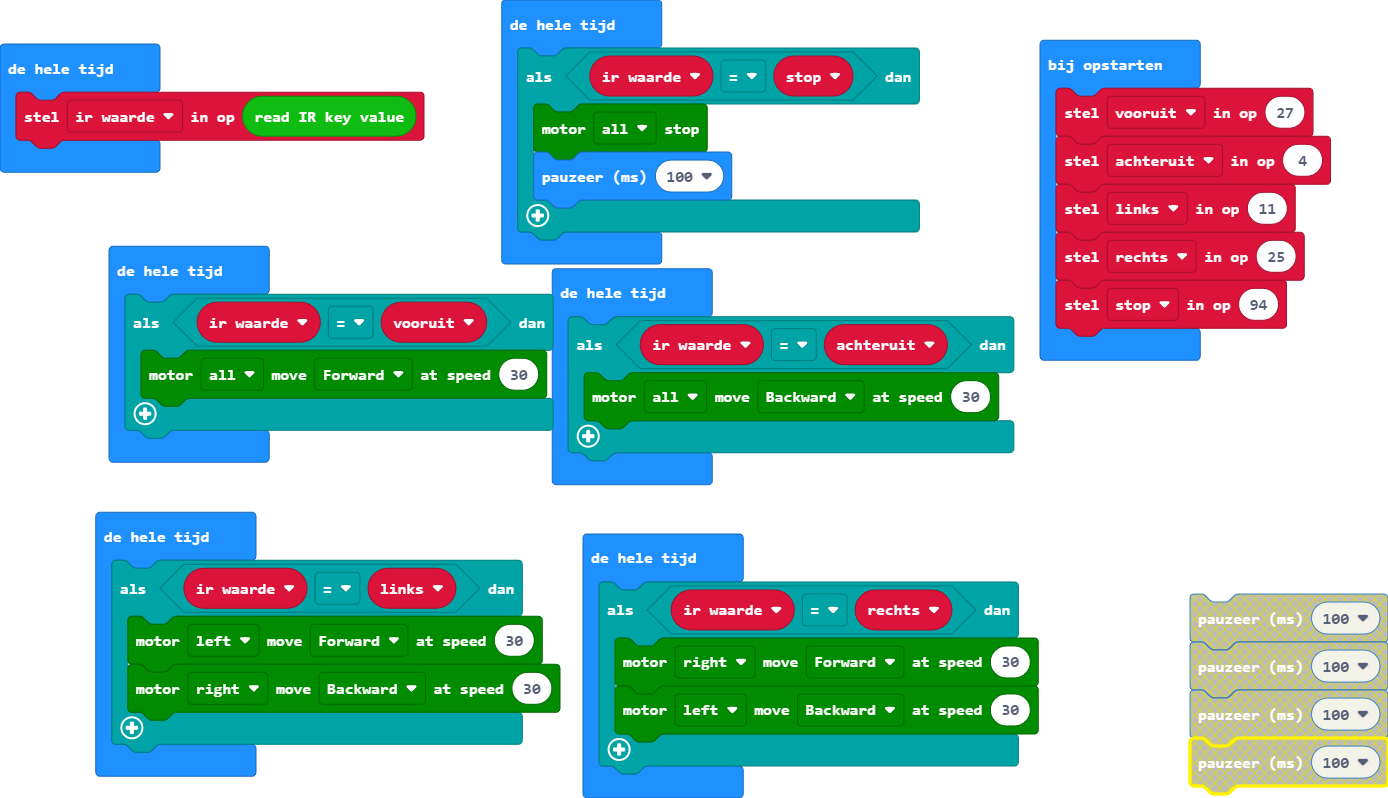
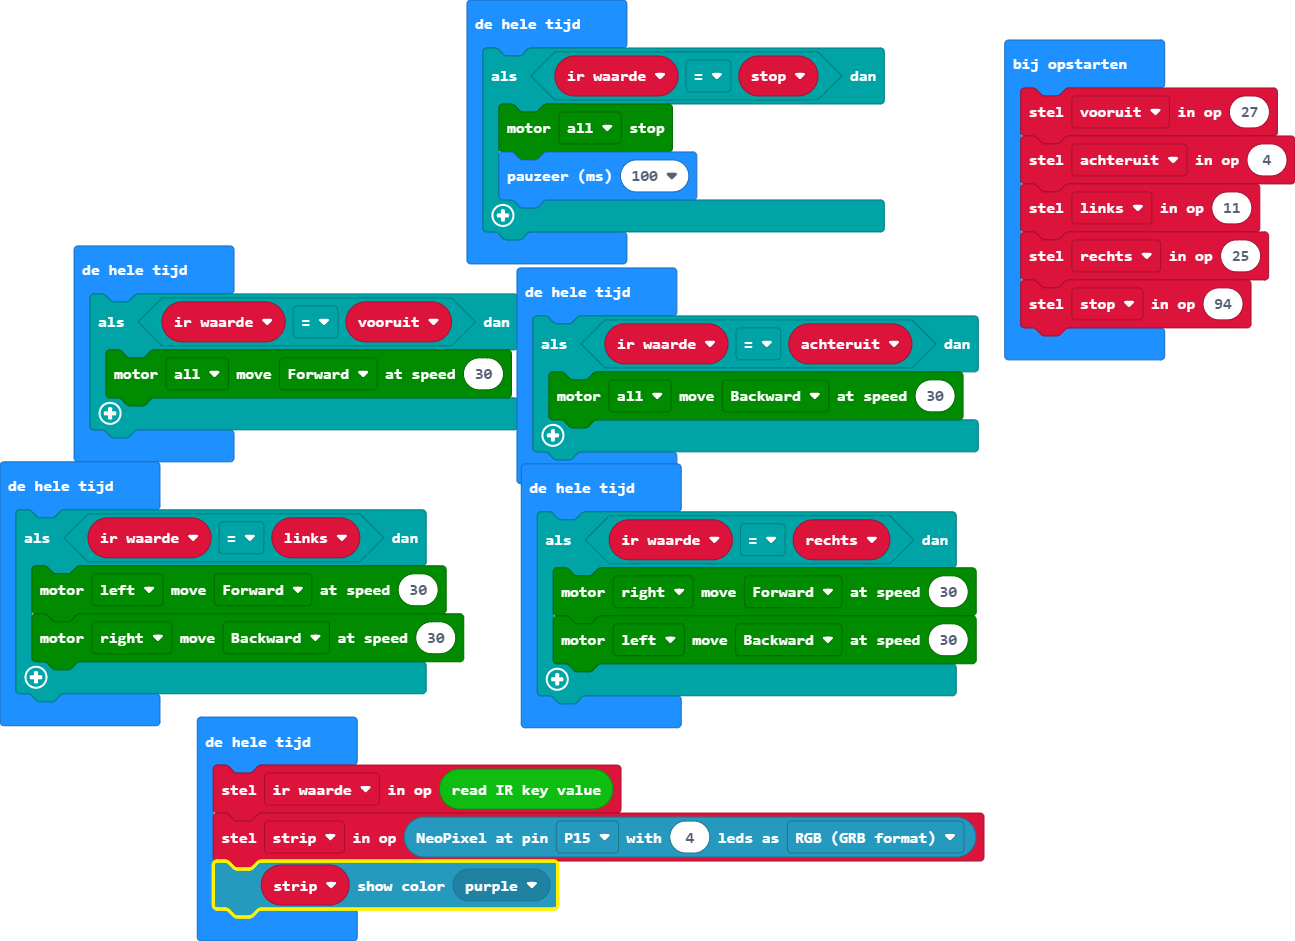
kleurenn

diff --git a/main.ts b/main.ts
@@ -1,3 +1,4 @@
+let strip: neopixel.Strip = null
 let ir_waarde = 0
 let vooruit = 27
 let achteruit = 4
@@ -9,9 +10,6 @@ basic.forever(function () {
         maqueen.motorStop(maqueen.Motors.All)
         basic.pause(100)
     }
-})
-basic.forever(function () {
-    ir_waarde = IR.IR_read()
 })
 basic.forever(function () {
     if (ir_waarde == vooruit) {
@@ -34,4 +32,9 @@ basic.forever(function () {
         maqueen.motorRun(maqueen.Motors.M2, maqueen.Dir.CW, 30)
         maqueen.motorRun(maqueen.Motors.M1, maqueen.Dir.CCW, 30)
     }
+})
+basic.forever(function () {
+    ir_waarde = IR.IR_read()
+    strip = neopixel.create(DigitalPin.P15, 4, NeoPixelMode.RGB)
+    strip.showColor(neopixel.colors(NeoPixelColors.Purple))
 })
